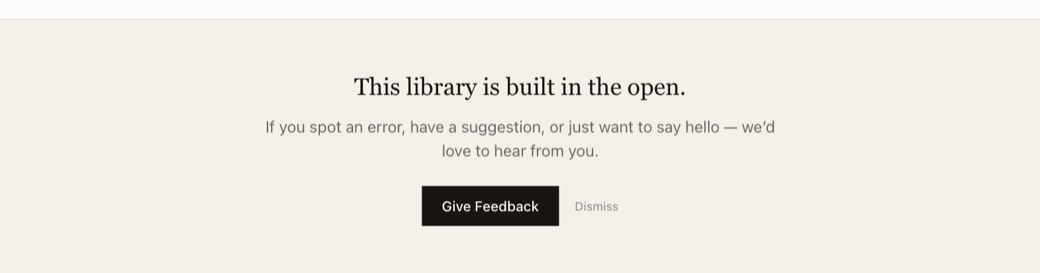
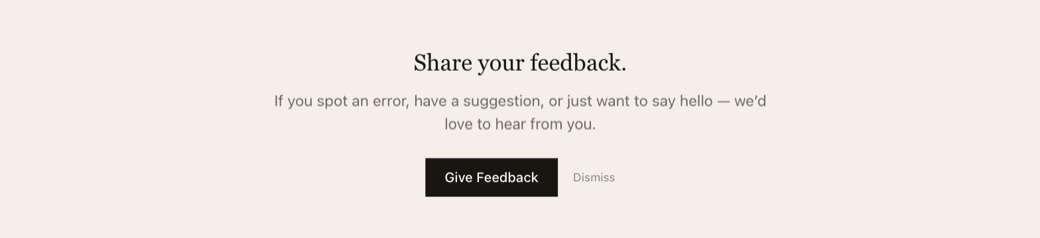
chore(email): re-shoot callout.jpg against the shipped heading (#3624)
* chore(email): newsletter — how to give feedback, with screenshots

A letter for the standing newsletter audience teaching readers where the
feedback controls are and what happens after they use one.

It is built around two real reports rather than an exhortation, because both
of them found something no script could have:

  - "I'm seeing chapter 4 on the image page and chapter 5 in the text"
    (2026-07-26) is the report that surfaced the bulk-JP2 leaf offset — 261
    visible books, ~105K pages, one leaf behind their own text for four
    months (#3368). An earlier reader had said the same thing on 2026-07-16
    and we did not connect them; the letter says so.
  - "What is this page about? Real?" on /encyclopedia/Matthiolus (2026-07-26)
    is the report behind the entity page-attribution fix (#3361).

Three screenshots captured from production today, hosted under
public/email/feedback-2026-08/ because email needs absolute URLs: the
footer callout, the feedback dialog, and the in-reader translation prompt on
Fludd's Utriusque Cosmi. They resolve only after a prod deploy — check all
three return 200 before sending.

The body file carries no header or footer: it is written for the 520px shell
in wrapInEmailShell(), which /admin/email manual compose applies. To see the
finished thing, render-newsletter-preview.mjs pulls that same shell out of
src/lib/email-templates.ts at run time rather than keeping a second copy, so
[…]

Changed region(s): [[0.2462, 0.3824, 0.7692, 0.5882], [0.3385, 0.2059, 0.6769, 0.3529], [0.4, 0.6471, 0.6154, 0.8529]]

diff --git a/scripts/email/feedback-newsletter-2026-08.body.html b/scripts/email/feedback-newsletter-2026-08.body.html
@@ -48,6 +48,11 @@
   shows the callout button AND the footer link in one frame, because the letter
   points at both.
 
+  callout.jpg was RE-SHOT on 2026-08-04 after the heading changed to "Share
+  your feedback." Shot against live production, not a DOM edited to look like
+  the future — the site ships first, then the picture is taken. If that band is
+  ever reworded again, this image is the one that goes stale.
+
   footer.jpg is cropped to the FOOTER ALONE. It used to include the "built in
   the open" callout above it, which duplicated callout.jpg and — worse — pinned
   a second copy of a heading that can change. Keep the two images disjoint so
